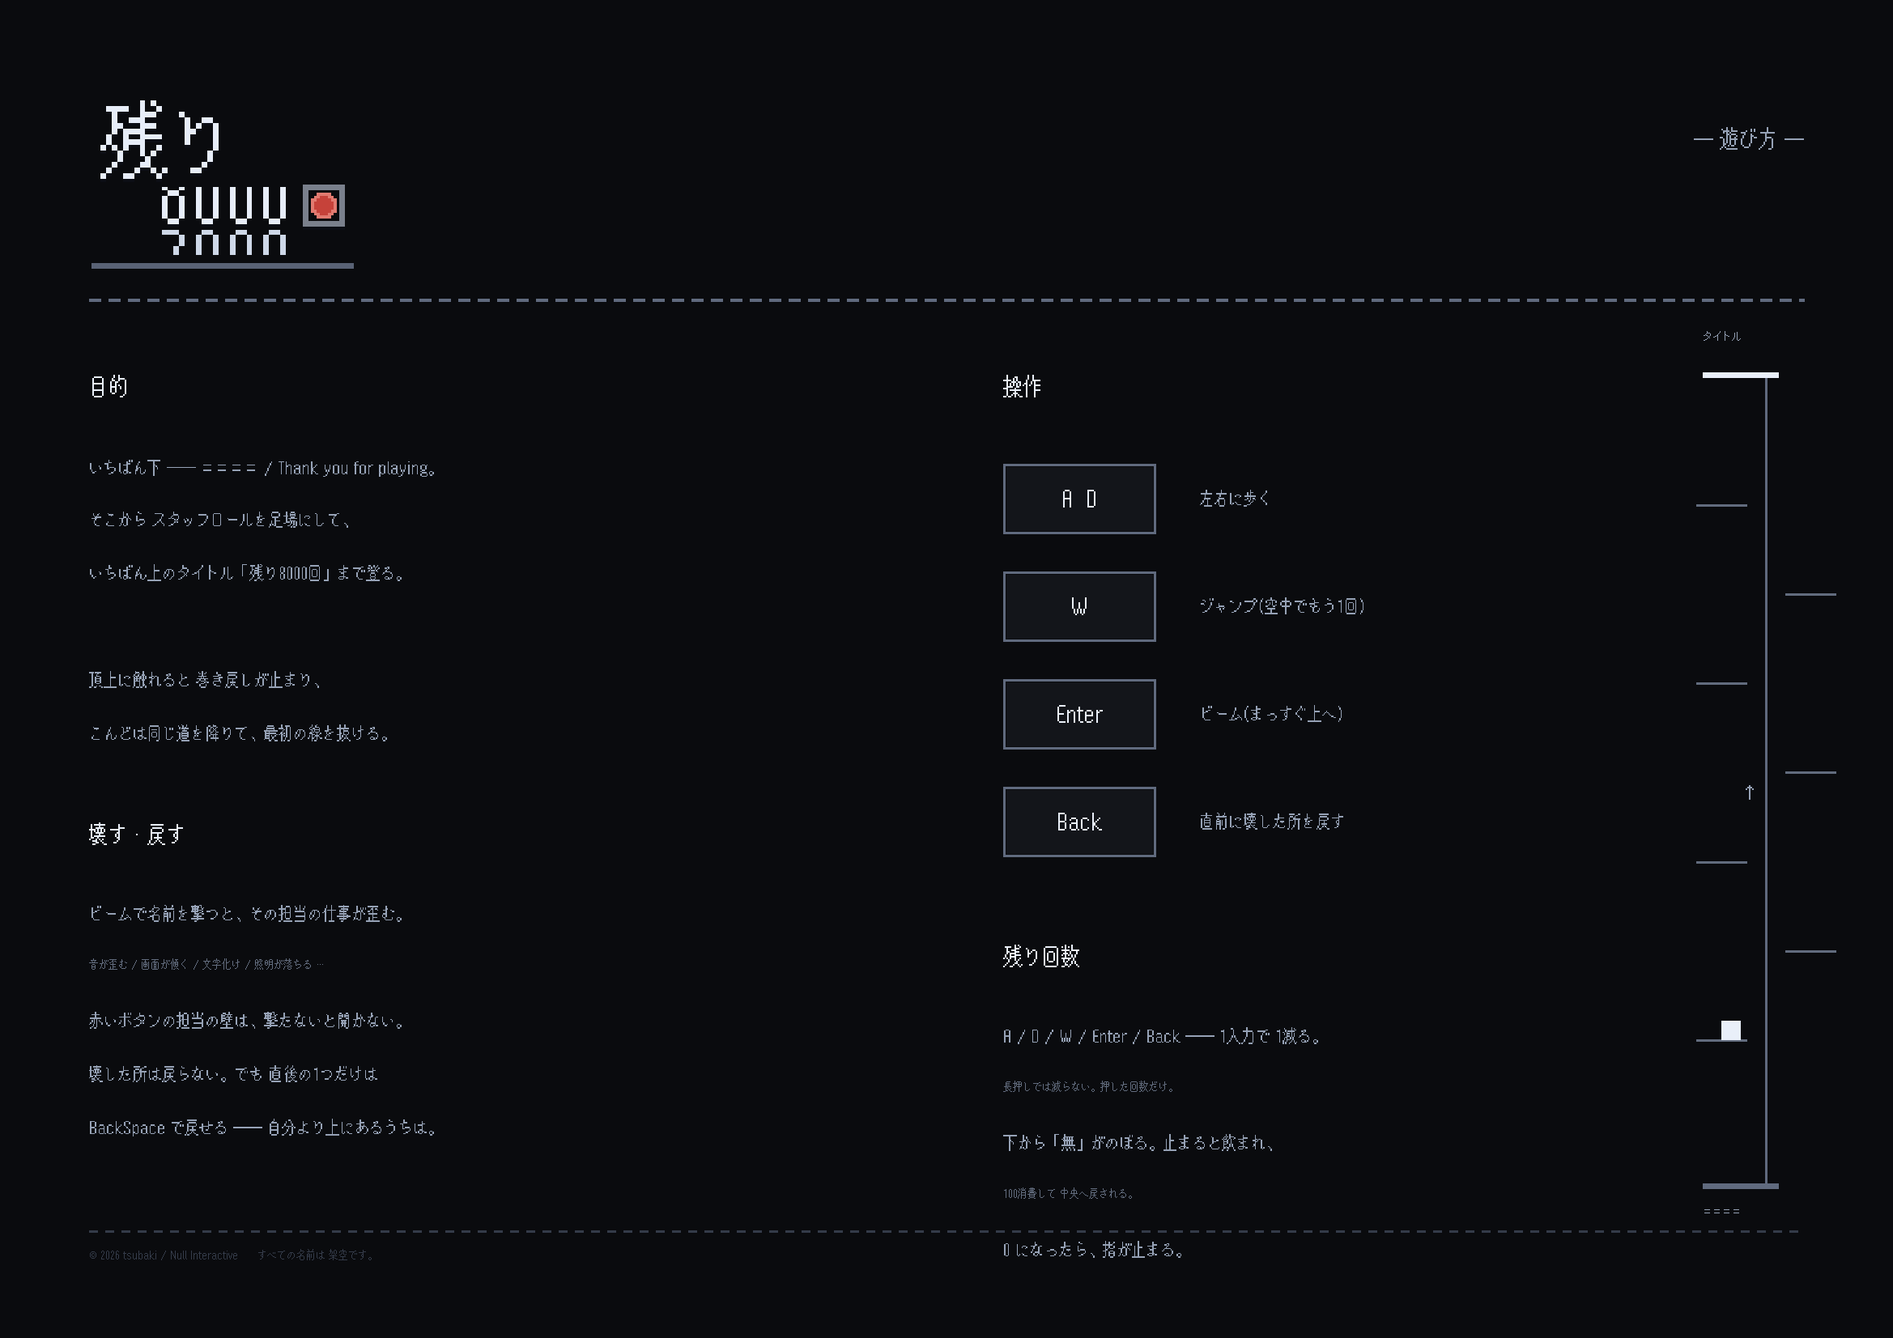
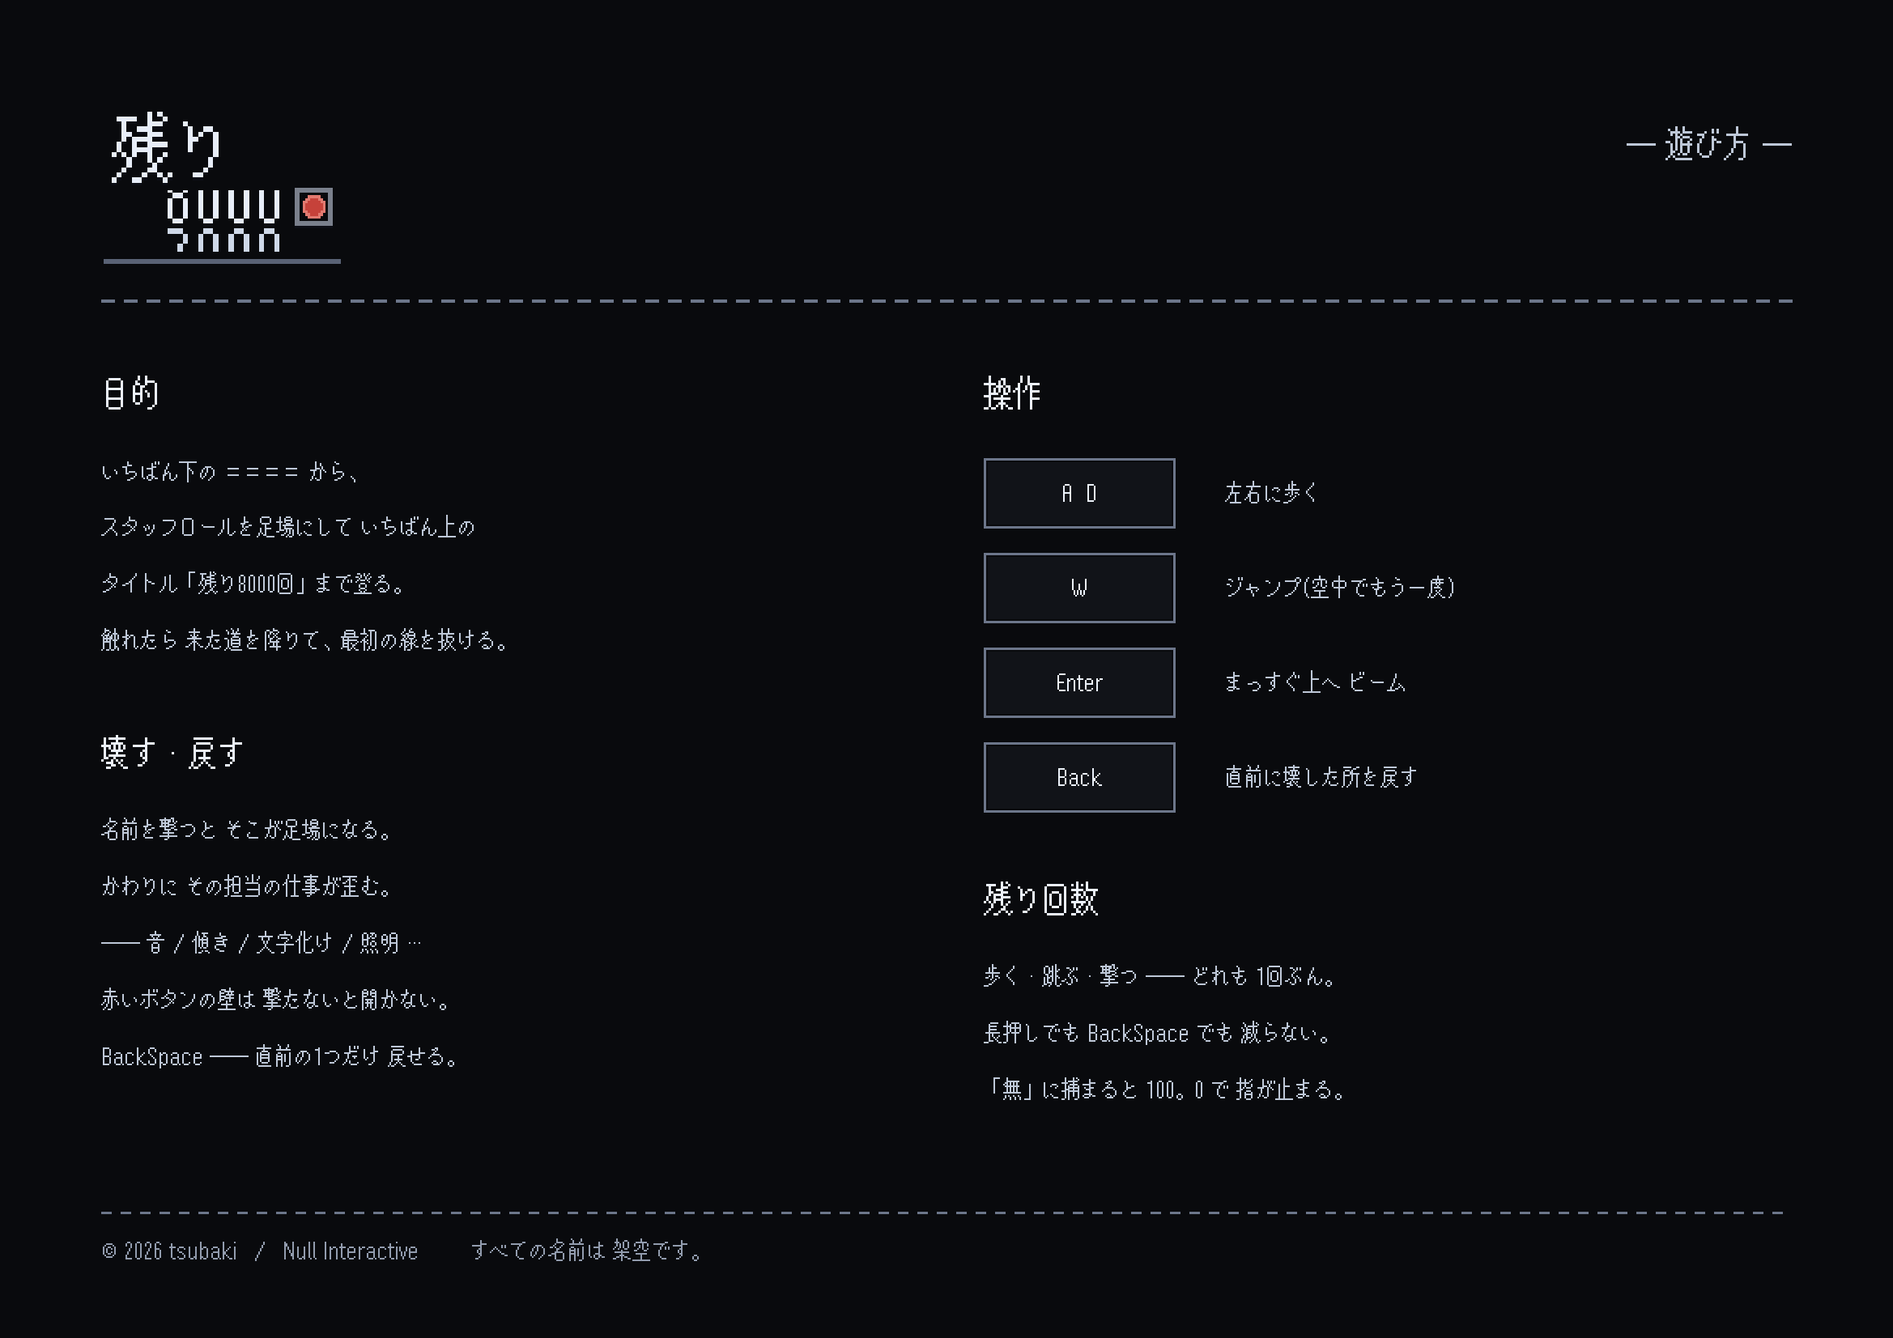
提出物 A3/A4 を作り直し: 文字を大きく・配色を読める明るさに(Hallmark)
ユーザーFB「ポスターが醜い / 文字を大きく / 見やすい色に」。
- 級数を 本文32 / 見出し48 / タグライン64 の3段に統一(16の倍数=素のドット)。
- 中間色 MID を (150,162,182)→(190,200,216) に。地に沈む FAINT 文字と
  クレジットのグラデーション(反AIスロップNG)を廃止。
- A3: ロゴを軸の真上に、その下へ役職名の梯子(足場にする仕事)、下端に
  プレイヤーとビーム、右にタグライン。無の帯は最下部でハードに断つ。
- A4: 2段組を footer に被らないよう再レイアウト。キーキャップ拡大。
  「BackSpace は減らない」を明記(実装と一致)。

Claude-Session: https://claude.ai/code/session_01JFj4tKBzi9fAPtCjeR3gUc

diff --git a/scripts/make_print.py b/scripts/make_print.py
@@ -1,18 +1,17 @@
 """
 残り8000回 - TGS 提出用の印刷物 2種(いずれも横向き)
 
-  poster_a3.png  : A3横 キービジュアル(タイトル入り)。壁掛け。
-  howto_a4.png   : A4横 遊び方。クリアファイルでテーブル設置。
+  poster_a3.png  : A3横 キービジュアル(タイトル入り)。壁に掛ける。
+  howto_a4.png   : A4横 遊び方。クリアファイルに入れてテーブルに置く。
 
 方針(反AIスロップ / Hallmark):
-  ・ゲーム本編と同じ素材だけで作る。フォントは x12y16pxMaruMonica、
-    ドットは 16 の倍数でラスタライズして AA なし。
-  ・配色は寒色モノクロ + 赤(押しボタン)の一点のみ。グラデも装飾も足さない。
-  ・コピーはゲームの声(淡々・少し寂しい・乾いた冗談)。宣伝文句を書かない。
-  ・余白を大きく、左揃え、明快な階層。印刷物としての作法。
-  ・キービジュアル = 「エンドロールを下から登る」を1枚で。
-    画面いっぱいの縦のクレジット、その途中に小さなプレイヤー、
-    下端で断ち切れる「無」、上にタイトル。
+  ・素材はゲーム本編と同じものだけ。フォントは x12y16pxMaruMonica を
+    16 の倍数でラスタライズ(= AA なし・素のドット)。
+  ・配色は寒色モノクロ + 赤(押しボタン)の一点のみ。グラデーションを使わない。
+  ・文字は「離れて / クリアファイル越しに」読める大きさを最優先。
+    級数は 本文32 / 見出し48 / タグライン64 の3段だけ。中間色で潰さない。
+  ・コピーはゲームの声(淡々・少し寂しい・乾いた冗談)。宣伝文句は書かない。
+  ・余白は大きく、左揃え、階層は級数と色の2つだけで作る。
 
 出力 : print/poster_a3.png / print/howto_a4.png (200dpi)
 deps : Pillow
@@ -28,14 +27,15 @@ ART = os.path.join(_ROOT, "Assets", "Art")
 DPI = 200
 MM = DPI / 25.4
 
-BG      = (10, 11, 14)
-INK     = (233, 239, 249)
-MID     = (150, 162, 182)
-DIM     = (98, 108, 126)
-FAINT   = (52, 59, 73)
-RULE    = (96, 106, 126)
-RED     = (200, 66, 58)
-VOID    = (5, 5, 7)
+# --- 配色: 黒地 + 寒色の白 + 赤の一点。中間トーンは「読める」明るさに寄せる ---
+BG    = (9, 10, 13)       # 地(ゲームの黒)
+INK   = (235, 241, 250)   # 主文字
+MID   = (190, 200, 216)   # 副文字(これでも普通に読める明るさ)
+DIM   = (146, 156, 174)   # 補足(32px 未満では使わない)
+LINE  = (108, 118, 138)   # 罫・目盛り
+RED   = (214, 84, 72)     # 押しボタンの赤(唯一の色み)
+WARM  = (223, 191, 108)   # ビーム
+VOID  = (4, 4, 6)         # 「無」
 
 _fc = {}
 
@@ -47,7 +47,7 @@ def _raw(px16):
 
 
 def text_img(s, px, color=INK):
-    """16px でラスタライズ → px 相当へニアレスト拡大した RGBA(ドット感を保つ)。"""
+    """16px でラスタライズ → px へニアレスト拡大(px は 16 の倍数推奨 = 整数倍で綺麗)。"""
     f = _raw(16)
     tmp = ImageDraw.Draw(Image.new("L", (4, 4)))
     b = tmp.textbbox((0, 0), s, font=f)
@@ -67,105 +67,112 @@ def paste(cv, img, x, y):
 
 
 def txt(cv, s, x, y, px, color=INK):
-    paste(cv, text_img(s, px, color), x, y)
+    g = text_img(s, px, color)
+    paste(cv, g, x, y)
+    return g.height
 
 
-def dotrule(dr, x0, x1, y, color=RULE, seg=14, gap=10, w=3):
+def dotrule(dr, x0, x1, y, color=LINE, seg=16, gap=12, w=3):
     x = x0
     while x < x1:
         dr.rectangle([x, y, min(x + seg, x1), y + w], fill=color)
         x += seg + gap
 
 
-def credit_lines():
-    out = []
-    with open(os.path.join(_ROOT, "Assets", "Credits", "credits.txt"), encoding="utf-8") as fh:
-        for ln in fh:
-            ln = ln.strip()
-            if not ln or ln.startswith(("//", "[", "~", "@", "=")):
-                continue
-            if ln.startswith("#"):
-                out.append(("h", ln[1:].strip()))
-            elif "::" in ln:
-                role, name = ln.split("::", 1)
-                out.append(("n", name.strip() + "  " + role.strip()))
-            else:
-                out.append(("n", ln))
-    return out
+# キービジュアルの梯子 = 足場にする「仕事」。credits.txt に実在する役職から、
+# 壊すと歪みが起きる担当を上から順に(いちばん下は The Producer)。
+LADDER_ROLES = [
+    "Lead Game Designer",
+    "Physics Programmer",
+    "Rendering Engineer",
+    "Music",
+    "Sound Director",
+    "Lighting Artist",
+    "The Producer",
+]
 
 
-# ---------------------------------------------------------------------------
+# ===========================================================================
+#  A3 横 : キービジュアル
+# ===========================================================================
 
 def make_poster():
     W, H = int(420 * MM), int(297 * MM)
     cv = Image.new("RGBA", (W, H), BG + (255,))
     dr = ImageDraw.Draw(cv)
-    pad = int(17 * MM)
+    pad = int(22 * MM)
 
-    void_y = int(H * 0.85)
-    top = pad
+    void_y = int(H * 0.855)
+    axis_x = int(W * 0.36)              # 登りの軸(画面の中央やや左)
 
-    # === 縦のエンドロール = 左の背骨。読ませるためでなく "登ってきた道の気配" ===
-    band_l = pad + int(2 * MM)
-    lines = credit_lines()
-    step = int(8 * MM)
-    y = top
-    i = 0
-    while y < void_y:
-        kind, s = lines[i % len(lines)]
-        t = (y - top) / (void_y - top)
-        if kind == "h":
-            c = MID if t < 0.5 else FAINT
-        else:
-            c = MID if t < 0.20 else DIM if t < 0.52 else FAINT if t < 0.85 else (34, 38, 47)
-        g = text_img(s, 34 if kind == "h" else 18, c)
-        paste(cv, g, band_l + (0 if kind == "h" else int(6 * MM)), y)
-        y += step + (int(3 * MM) if kind == "h" else 0)
-        i += 1
-
-    # プレイヤー(白い1マス)+ 真上へのビーム。足場を1本、明るく。上から 40%
-    py = top + int((void_y - top) * 0.40)
-    ps = int(5 * MM)
-    px_ = band_l + int(2 * MM)
-    dr.rectangle([band_l - int(4 * MM), py + ps + int(1 * MM),
-                  band_l + int(66 * MM), py + ps + int(3 * MM)], fill=RULE)     # 足場
-    dr.rectangle([px_ + ps // 2 - 2, top + int(6 * MM), px_ + ps // 2 + 2, py],
-                 fill=(214, 182, 92))                                          # ビーム(頂上へ)
-    dr.rectangle([px_, py, px_ + ps, py + ps], fill=INK)
-
-    # === ロゴ = 登り着く先。右上・大きく、画面の中心寄り ===
+    # --- ロゴ = 登り着く先。軸の真上に置く ---
     logo = Image.open(os.path.join(ART, "logo.png")).convert("RGBA")
-    lw = int(W * 0.44)
+    lw = int(W * 0.30)
     logo = logo.resize((lw, int(lw * logo.height / logo.width)), Image.NEAREST)
-    lx = int(W * 0.40)
-    ly = pad + int(8 * MM)
-    paste(cv, logo, lx, ly)
+    logo_x = axis_x - int(lw * 0.34)
+    logo_y = pad
+    paste(cv, logo, logo_x, logo_y)
 
-    # === コピー(ロゴの下・大きく)===
-    cx = lx + int(2 * MM)
-    cyy = ly + logo.height + int(20 * MM)
-    txt(cv, "エンドロールを、", cx, cyy, 46, INK); cyy += int(19 * MM)
-    txt(cv, "いちばん下から登る。", cx, cyy, 46, INK); cyy += int(28 * MM)
+    ladder_top = logo_y + logo.height + int(20 * MM)
+    ladder_bot = void_y - int(20 * MM)
+
+    # --- 梯子 = 足場にした「仕事」。軸に沿って役職名を並べる ---
+    dr.line([(axis_x, ladder_top - int(6 * MM)), (axis_x, ladder_bot + int(8 * MM))],
+            fill=LINE, width=3)
+    rungs = LADDER_ROLES
+    n = max(1, len(rungs))
+    player_i = n - 2
+    for i, s in enumerate(rungs):
+        ry = ladder_top + int((ladder_bot - ladder_top) * i / max(1, n - 1))
+        near = abs(i - player_i) <= 1
+        dr.rectangle([axis_x - int(5 * MM), ry + int(5 * MM),
+                      axis_x + int(5 * MM), ry + int(5 * MM) + 3], fill=LINE)
+        txt(cv, s, axis_x + int(13 * MM), ry, 32, INK if near else MID)
+
+    # 足場 + プレイヤー(白1マス)+ ロゴへ伸びるビーム
+    py = ladder_top + int((ladder_bot - ladder_top) * player_i / max(1, n - 1))
+    ps = int(7 * MM)
+    dr.rectangle([axis_x - int(9 * MM), py + ps + int(2 * MM),
+                  axis_x + int(74 * MM), py + ps + int(2 * MM) + 4], fill=INK)
+    dr.rectangle([axis_x + ps // 2 - 3, logo_y + logo.height - int(2 * MM),
+                  axis_x + ps // 2 + 3, py], fill=WARM)
+    dr.rectangle([axis_x, py, axis_x + ps, py + ps], fill=INK)
+
+    # 梯子の下端 = 最初の線
+    txt(cv, "＝＝＝＝   Thank you for playing.",
+        axis_x + int(13 * MM), ladder_bot + int(4 * MM), 32, MID)
+
+    # --- タグライン = 右上の空きを使う(梯子の上部と高さを合わせる)---
+    tx = int(W * 0.57)
+    ty = int(H * 0.17)
+    ty += txt(cv, "エンドロールを、", tx, ty, 64, INK) + int(12 * MM)
+    ty += txt(cv, "いちばん下から登る。", tx, ty, 64, INK) + int(24 * MM)
     for s in ["巻き戻しが止まる前に、頂上のタイトルへ。",
               "名前を壊せば、足場が空く。",
               "壊しすぎれば、世界のほうが歪む。"]:
-        txt(cv, s, cx, cyy, 20, MID); cyy += int(9 * MM)
+        ty += txt(cv, s, tx, ty, 32, MID) + int(9 * MM)
 
-    # === 「無」= 下端でハードに断ち切れる ===
+    # --- 下端: 「無」。ハードに断ち切る ---
     dr.rectangle([0, void_y, W, H], fill=VOID)
-    dr.rectangle([0, void_y, W, void_y + 6], fill=RULE)
-    txt(cv, "下から、無がのぼってくる。止まると、飲まれる。", pad, void_y + int(9 * MM), 20, DIM)
-    txt(cv, "残り8000回      Null Interactive      Tokyo Game Show 2026",
-        W - pad - int(150 * MM), H - pad - int(1 * MM), 18, DIM)
+    dr.rectangle([0, void_y, W, void_y + 7], fill=LINE)
+    txt(cv, "下から、無がのぼってくる。止まると、飲まれる。",
+        pad, void_y + int(12 * MM), 32, MID)
+    foot = "残り8000回   ／   Null Interactive   ／   Tokyo Game Show 2026"
+    fg = text_img(foot, 32, DIM)
+    paste(cv, fg, W - pad - fg.width, H - pad - fg.height)
 
     out = os.path.join(_ROOT, "print", "poster_a3.png")
     cv.convert("RGB").save(out, dpi=(DPI, DPI))
     print("poster:", out, cv.size)
 
 
+# ===========================================================================
+#  A4 横 : 遊び方
+# ===========================================================================
+
 def keycap(dr, cv, x, y, w, h, label):
-    dr.rectangle([x, y, x + w, y + h], outline=RULE, width=3)
-    dr.rectangle([x + 4, y + 4, x + w - 4, y + h - 4], fill=(19, 21, 26))
+    dr.rectangle([x, y, x + w, y + h], outline=LINE, width=3)
+    dr.rectangle([x + 5, y + 5, x + w - 5, y + h - 5], fill=(17, 19, 24))
     g = text_img(label, 32, INK)
     paste(cv, g, x + (w - g.width) // 2, y + (h - g.height) // 2)
 
@@ -174,89 +181,75 @@ def make_howto():
     W, H = int(297 * MM), int(210 * MM)
     cv = Image.new("RGBA", (W, H), BG + (255,))
     dr = ImageDraw.Draw(cv)
-    pad = int(14 * MM)
+    pad = int(16 * MM)
 
     # --- ヘッダ ---
     logo = Image.open(os.path.join(ART, "logo.png")).convert("RGBA")
-    lw = int(42 * MM)
+    lw = int(38 * MM)
     logo = logo.resize((lw, int(lw * logo.height / logo.width)), Image.NEAREST)
     paste(cv, logo, pad, pad)
-    hd = text_img("― 遊び方 ―", 32, MID)
-    paste(cv, hd, W - pad - hd.width, pad + int(6 * MM))
-    hr = pad + logo.height + int(3 * MM)
-    dotrule(dr, pad, W - pad, hr, RULE)
+    hd = text_img("― 遊び方 ―", 48, MID)
+    paste(cv, hd, W - pad - hd.width, pad + int(4 * MM))
+    hr = pad + logo.height + int(4 * MM)
+    dotrule(dr, pad, W - pad, hr, LINE)
 
     top = hr + int(12 * MM)
     colL = pad
-    colR = int(W * 0.53)
-    body = 24   # 本文
+    colR = int(W * 0.52)
+    BODY, HEAD = 32, 48
+    lh = int(9 * MM)            # 本文の行送り
 
-    # --- 左: 目的 ---
-    y = top
-    txt(cv, "目的", colL, y, 32, INK); y += int(13 * MM)
-    for s in ["いちばん下 ―― ＝＝＝＝ / Thank you for playing。",
-              "そこから スタッフロールを足場にして、",
-              "いちばん上のタイトル「残り8000回」まで登る。",
-              "",
-              "頂上に触れると 巻き戻しが止まり、",
-              "こんどは同じ道を降りて、最初の線を抜ける。"]:
-        if s:
-            txt(cv, s, colL, y, body, MID)
-        y += int(8.5 * MM)
+    def block(x, y, head, rows):
+        txt(cv, head, x, y, HEAD, INK)
+        y += int(13 * MM)
+        for s in rows:
+            if s:
+                txt(cv, s, x, y, BODY, MID)
+            y += lh
+        return y
 
-    y += int(7 * MM)
-    txt(cv, "壊す・戻す", colL, y, 32, INK); y += int(13 * MM)
-    for s, c in [("ビームで名前を撃つと、その担当の仕事が歪む。", MID),
-                 ("音が歪む / 画面が傾く / 文字化け / 照明が落ちる …", DIM),
-                 ("赤いボタンの担当の壁は、撃たないと開かない。", MID),
-                 ("壊した所は戻らない。でも 直後の1つだけは", MID),
-                 ("BackSpace で戻せる ―― 自分より上にあるうちは。", MID)]:
-        txt(cv, s, colL, y, body if c == MID else 16, c)
-        y += int(8.5 * MM)
+    # --- 左 ---
+    y = block(colL, top, "目的", [
+        "いちばん下の ＝＝＝＝ から、",
+        "スタッフロールを足場にして いちばん上の",
+        "タイトル「残り8000回」まで登る。",
+        "触れたら 来た道を降りて、最初の線を抜ける。",
+    ])
+    y += int(8 * MM)
+    block(colL, y, "壊す・戻す", [
+        "名前を撃つと そこが足場になる。",
+        "かわりに その担当の仕事が歪む。",
+        "―― 音 / 傾き / 文字化け / 照明 …",
+        "赤いボタンの壁は 撃たないと開かない。",
+        "BackSpace ―― 直前の1つだけ 戻せる。",
+    ])
 
     # --- 右: 操作 ---
     y = top
-    txt(cv, "操作", colR, y, 32, INK); y += int(14 * MM)
-    kw, kh = int(24 * MM), int(11 * MM)
+    txt(cv, "操作", colR, y, HEAD, INK)
+    y += int(13 * MM)
+    kw, kh = int(30 * MM), int(11 * MM)
     for key, desc in [("A  D", "左右に歩く"),
-                      ("W", "ジャンプ(空中でもう1回)"),
-                      ("Enter", "ビーム(まっすぐ上へ)"),
+                      ("W", "ジャンプ(空中でもう一度)"),
+                      ("Enter", "まっすぐ上へ ビーム"),
                       ("Back", "直前に壊した所を戻す")]:
         keycap(dr, cv, colR, y, kw, kh, key)
-        d = text_img(desc, body, MID)
-        paste(cv, d, colR + kw + int(7 * MM), y + (kh - d.height) // 2)
-        y += kh + int(6 * MM)
+        d = text_img(desc, BODY, MID)
+        paste(cv, d, colR + kw + int(8 * MM), y + (kh - d.height) // 2)
+        y += kh + int(4 * MM)
 
-    y += int(8 * MM)
-    txt(cv, "残り回数", colR, y, 32, INK); y += int(13 * MM)
-    for s, c in [("A / D / W / Enter / Back ―― 1入力で 1減る。", MID),
-                 ("長押しでは減らない。押した回数だけ。", DIM),
-                 ("下から「無」がのぼる。止まると飲まれ、", MID),
-                 ("100消費して 中央へ戻される。", DIM),
-                 ("0 になったら、指が止まる。", MID)]:
-        txt(cv, s, colR, y, body if c == MID else 16, c)
-        y += int(8.5 * MM)
-
-    # --- 右端: たての図 ---
-    gx = W - pad - int(6 * MM)
-    gy0, gy1 = top, H - pad - int(10 * MM)
-    dr.line([(gx, gy0), (gx, gy1)], fill=RULE, width=3)
-    dr.rectangle([gx - int(10 * MM), gy0 - 3, gx + int(2 * MM), gy0 + 3], fill=INK)
-    paste(cv, text_img("タイトル", 16, MID), gx - int(10 * MM), gy0 - int(7 * MM))
-    for k in range(7):
-        yy = gy0 + int((gy1 - gy0) * (0.16 + k * 0.11))
-        xoff = int(7 * MM) if k % 2 else -int(7 * MM)
-        dr.rectangle([gx + xoff - int(4 * MM), yy, gx + xoff + int(4 * MM), yy + 2], fill=DIM)
-    dr.rectangle([gx - int(10 * MM), gy1 - 3, gx + int(2 * MM), gy1 + 3], fill=RULE)
-    paste(cv, text_img("＝＝＝＝", 16, MID), gx - int(10 * MM), gy1 + int(3 * MM))
-    ps = int(3 * MM)
-    dr.rectangle([gx - int(7 * MM), gy1 - int(26 * MM), gx - int(7 * MM) + ps, gy1 - int(26 * MM) + ps], fill=INK)
-    paste(cv, text_img("↑", 32, MID), gx - int(4 * MM), (gy0 + gy1) // 2)
+    y += int(7 * MM)
+    block(colR, y, "残り回数", [
+        "歩く・跳ぶ・撃つ ―― どれも 1回ぶん。",
+        "長押しでも BackSpace でも 減らない。",
+        "「無」に捕まると 100。0 で 指が止まる。",
+    ])
 
     # --- フッタ ---
-    fr = H - pad - int(3 * MM)
-    dotrule(dr, pad, W - pad, fr, FAINT, seg=10, gap=10, w=2)
-    txt(cv, "© 2026 tsubaki / Null Interactive      すべての名前は 架空です。", pad, fr + int(3 * MM), 16, FAINT)
+    fr = H - pad - int(4 * MM)
+    dotrule(dr, pad, W - pad, fr, LINE, seg=12, gap=12, w=2)
+    txt(cv, "© 2026 tsubaki  ／  Null Interactive        すべての名前は 架空です。",
+        pad, fr + int(4 * MM), BODY, DIM)
 
     out = os.path.join(_ROOT, "print", "howto_a4.png")
     cv.convert("RGB").save(out, dpi=(DPI, DPI))
